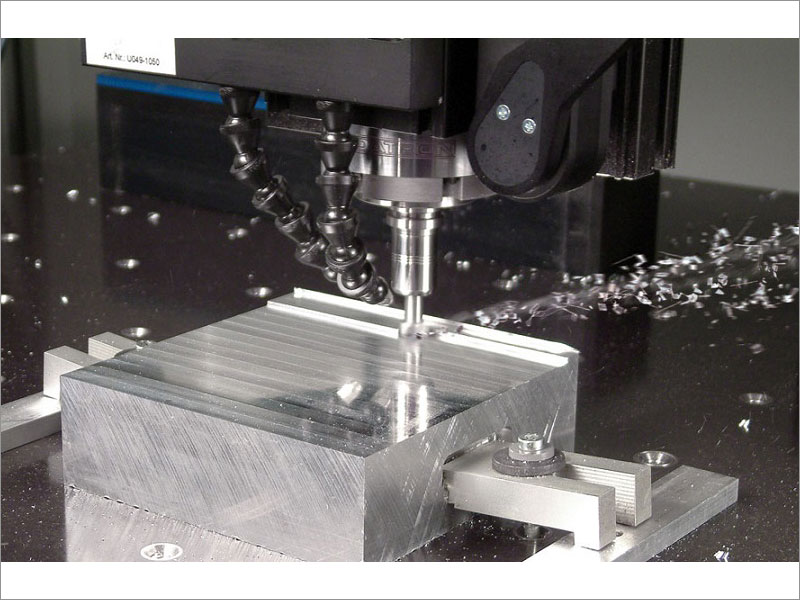
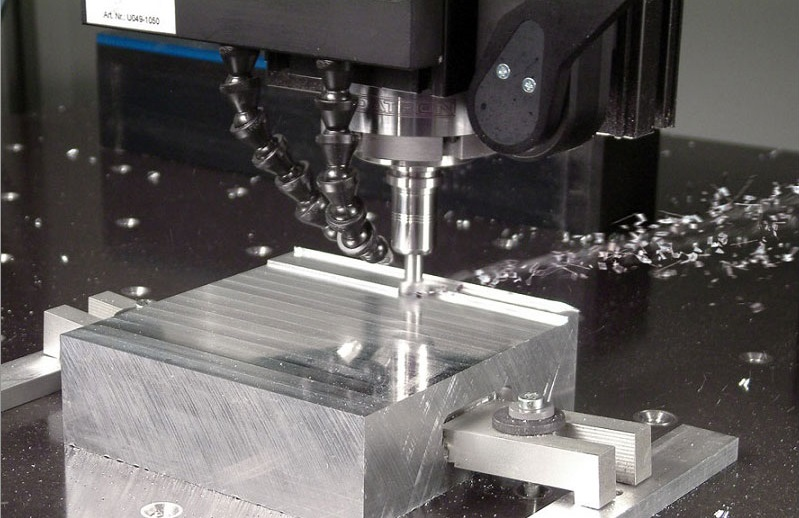
Updated service pic fit

diff --git a/style.css b/style.css
@@ -7,6 +7,10 @@
     border: solid #364c95 1px;
 }
 
+img.service-icon{
+    object-fit: cover;
+}
+
 .nav-logo{
     padding: 5px;
     height: 80px;
